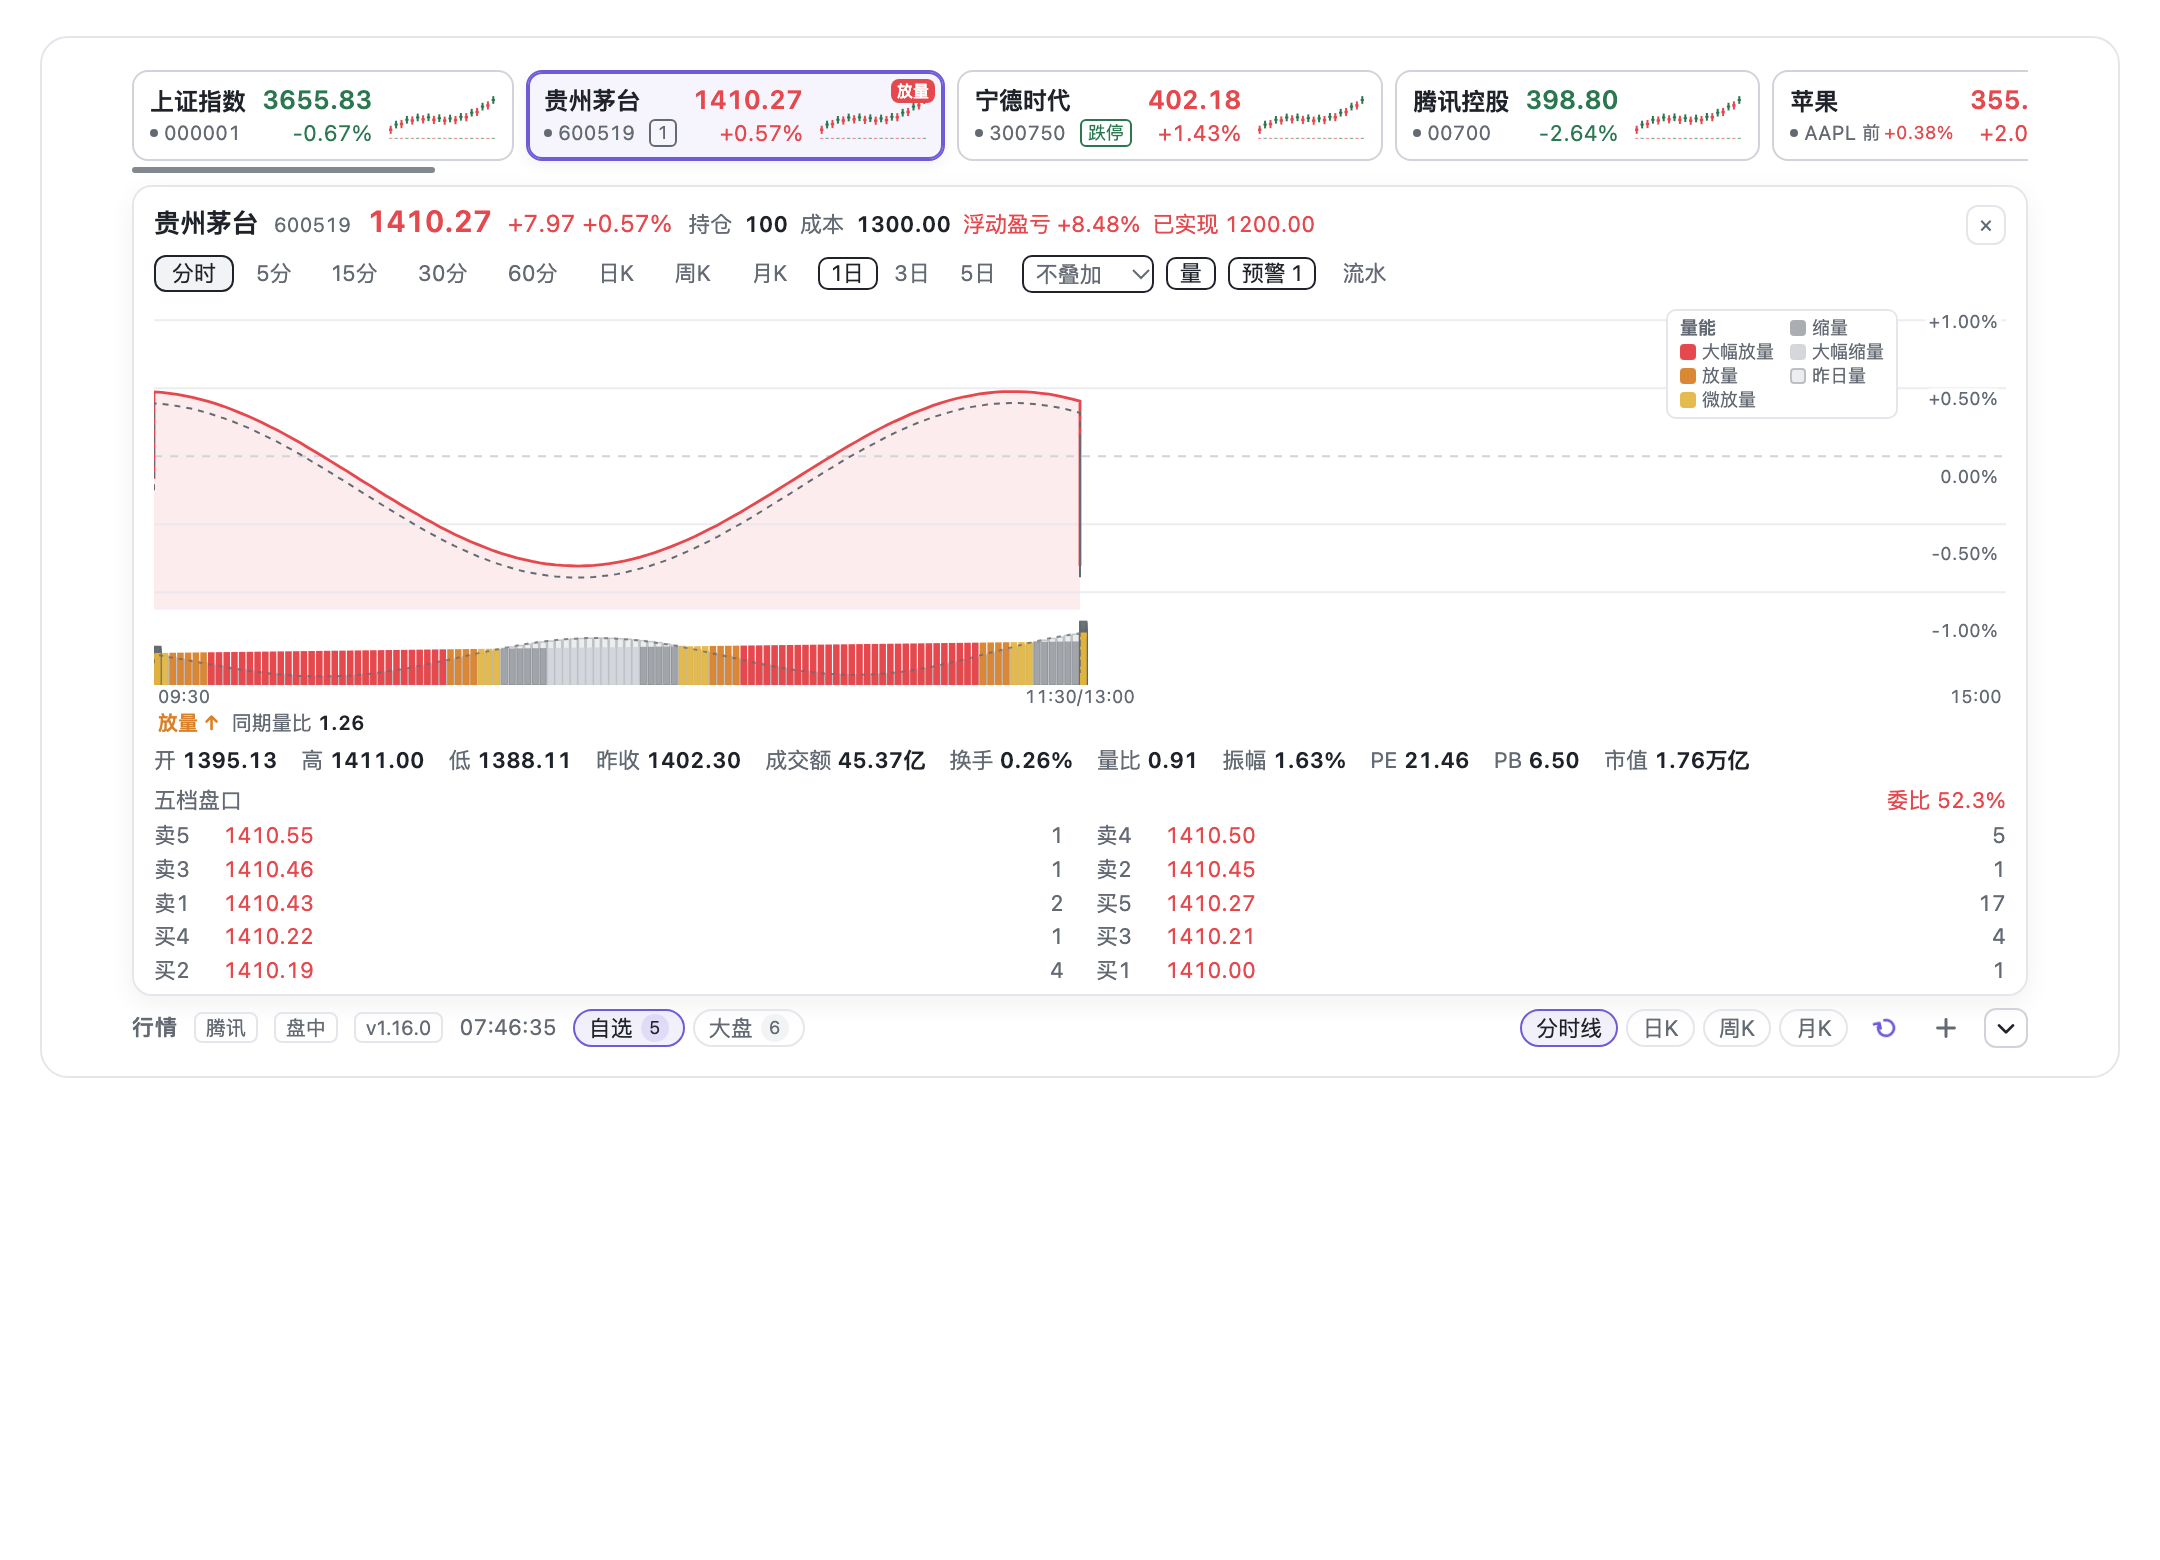
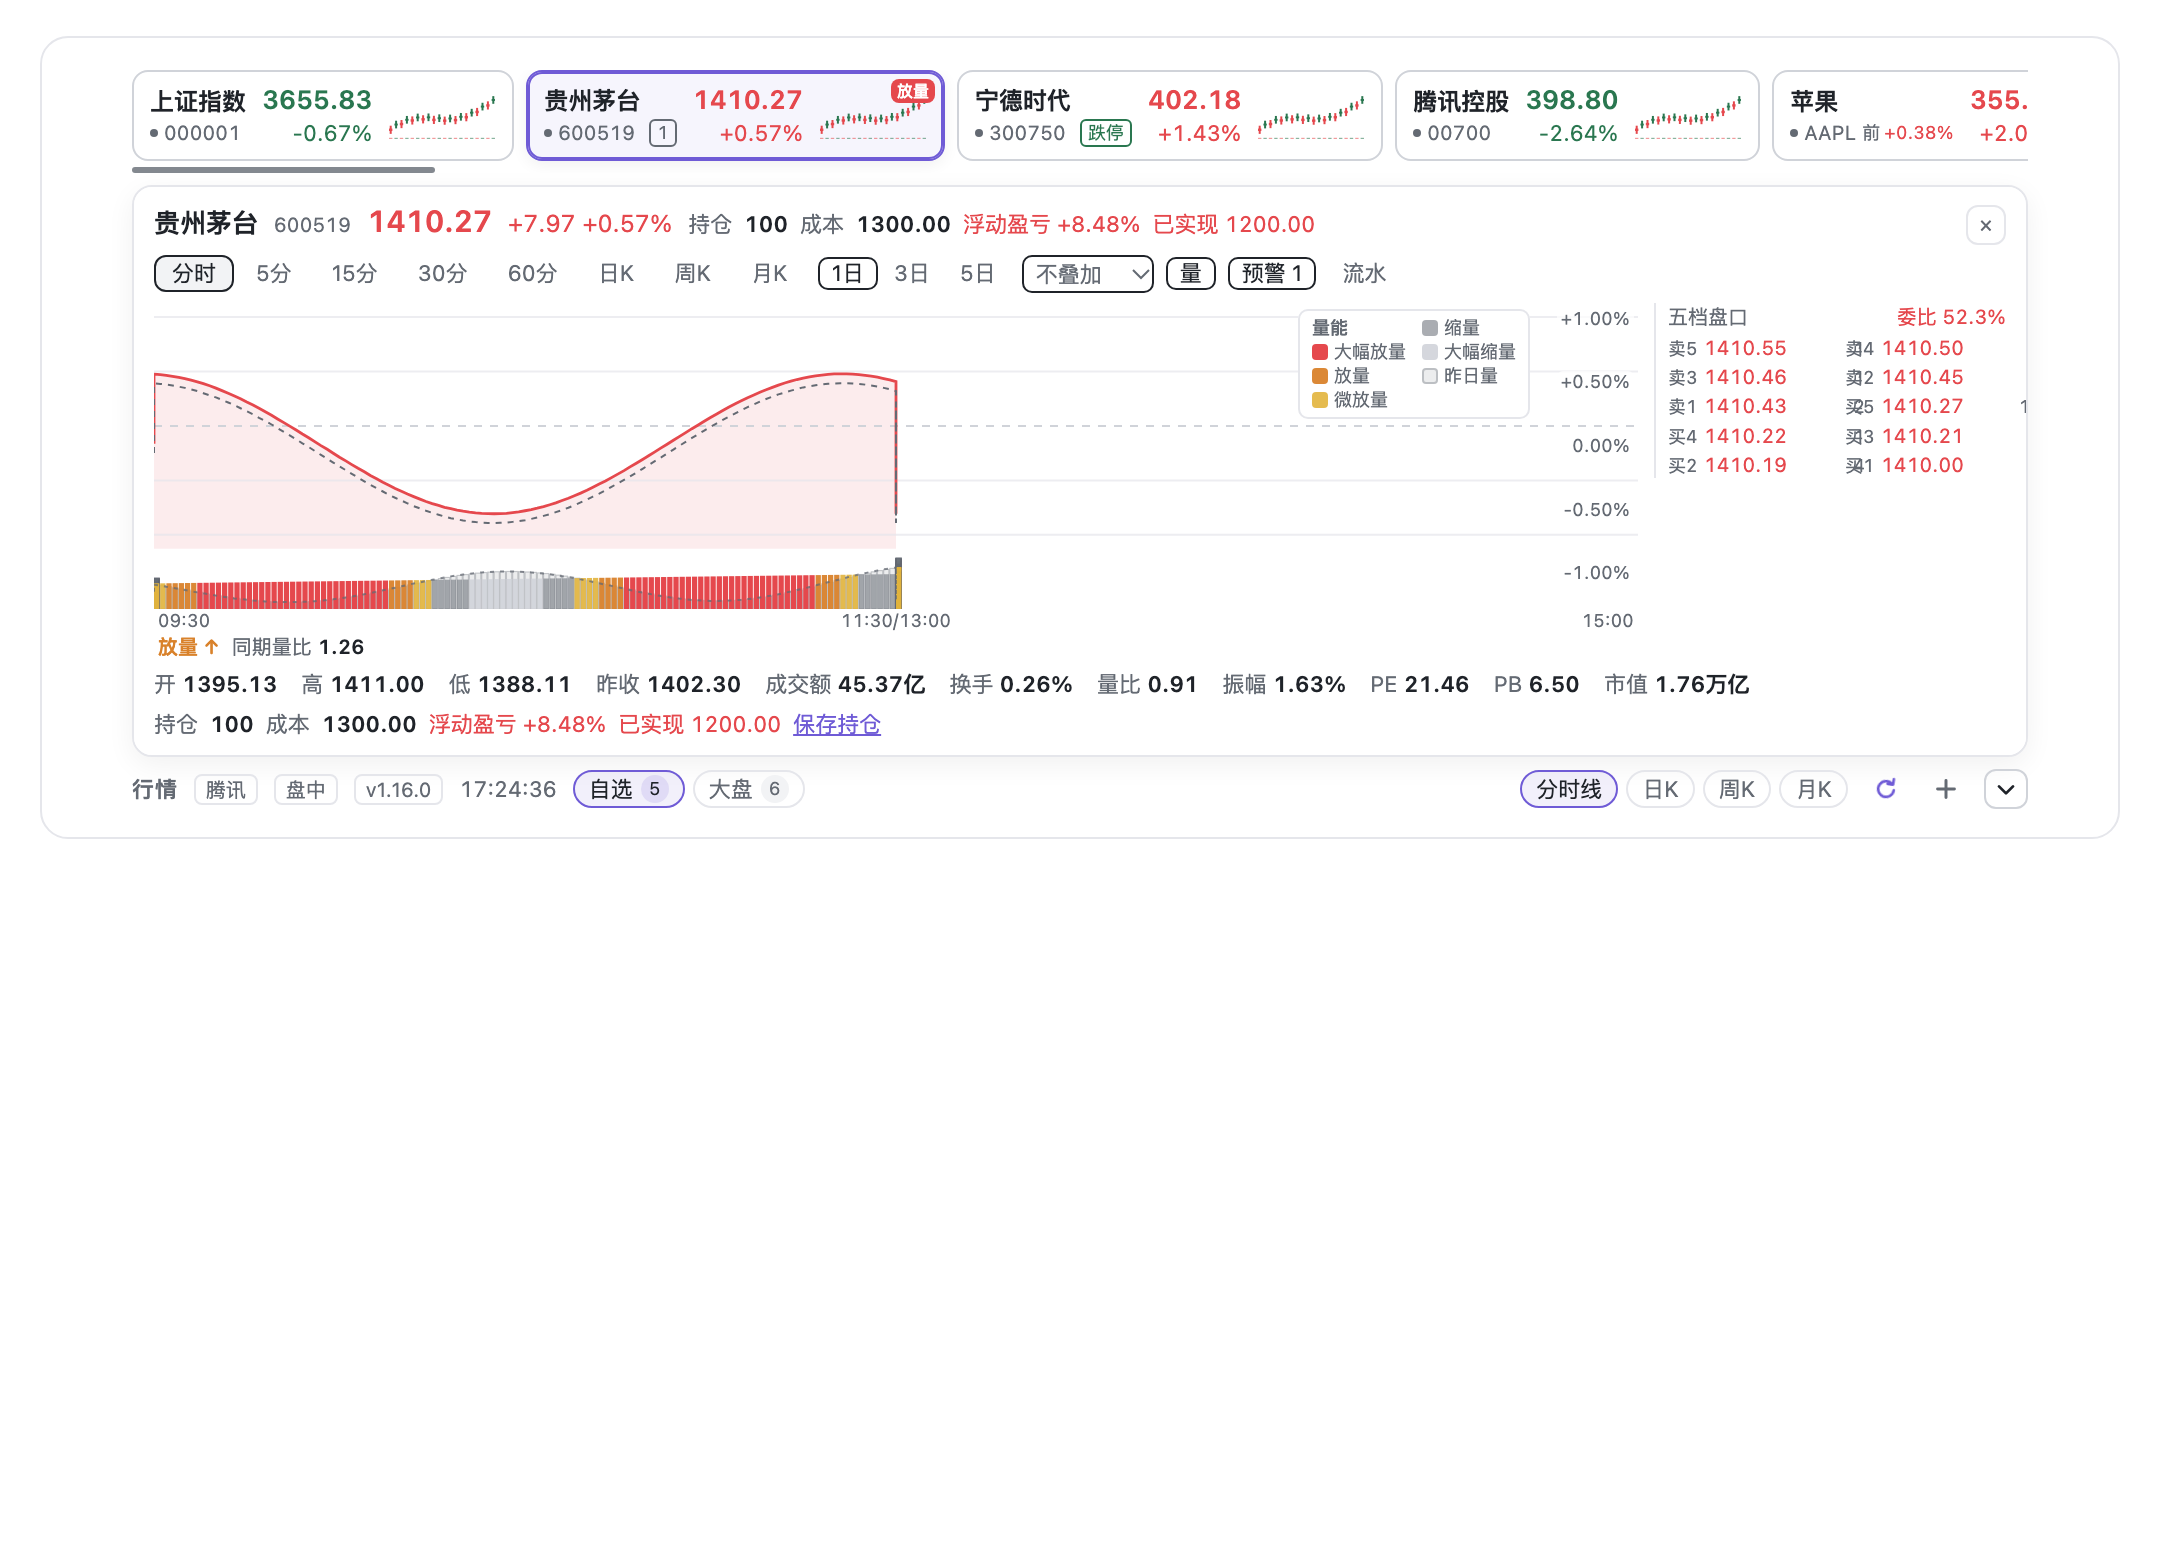
feat: dock the order book beside the chart

diff --git a/client.js b/client.js
@@ -943,25 +943,42 @@ window.__ModuleLoader__.load({
   font-size: 10px;
   line-height: 14px;
 }
-.dshst-book { display: flex; flex-direction: column; gap: 3px; }
+.dshst-chartRow { display: flex; align-items: flex-start; gap: 8px; width: 100%; }
+.dshst-chartCol { flex: 1 1 auto; min-width: 0; }
+.dshst-book {
+  display: flex;
+  flex: 0 0 176px;
+  flex-direction: column;
+  gap: 2px;
+  width: 176px;
+  min-width: 0;
+  padding-left: 6px;
+  border-left: 1px solid var(--dsw-alias-border-l1);
+}
 .dshst-bookHead {
   display: flex;
   justify-content: space-between;
-  font-size: 11px;
+  gap: 4px;
+  font-size: 10px;
   color: var(--dsw-alias-label-secondary);
   font-variant-numeric: tabular-nums;
+  white-space: nowrap;
 }
 .dshst-bookGrid {
   display: grid;
-  grid-template-columns: 1fr 1fr;
-  gap: 2px 16px;
-  font-size: 11px;
+  grid-template-columns: minmax(0, 1fr) minmax(0, 1fr);
+  gap: 1px 8px;
+  font-size: 10px;
   font-variant-numeric: tabular-nums;
 }
-.dshst-bookRow { display: flex; align-items: baseline; gap: 6px; }
-.dshst-bookLabel { width: 20px; color: var(--dsw-alias-label-secondary); }
-.dshst-bookPrice { min-width: 54px; text-align: right; }
-.dshst-bookVolume { margin-left: auto; color: var(--dsw-alias-label-secondary); }
+.dshst-bookRow { display: flex; align-items: baseline; gap: 3px; min-width: 0; }
+.dshst-bookLabel { flex: 0 0 15px; color: var(--dsw-alias-label-secondary); font-size: 9px; }
+.dshst-bookPrice { flex: 1 1 auto; text-align: right; font-size: 10px; }
+.dshst-bookVolume { flex: 0 0 36px; margin-left: 0; text-align: right; color: var(--dsw-alias-label-secondary); font-size: 9px; }
+@media (max-width: 720px) {
+  .dshst-chartRow { flex-direction: column; }
+  .dshst-book { flex-basis: auto; width: 100%; border-left: 0; border-top: 1px solid var(--dsw-alias-border-l1); padding: 6px 0 0; }
+}
 .dshst-chip {
   padding: 0 5px;
   border: 1px solid var(--dsw-alias-border-l1);
@@ -4803,9 +4820,15 @@ window.__ModuleLoader__.load({
               ),
             )
           : null,
-        chart,
+        h(
+          'div',
+          { className: 'dshst-chartRow' },
+          h('div', { className: 'dshst-chartCol' }, chart),
+          prefs.showOrderBook === false
+            ? null
+            : h(OrderBook, { depth: quote.depth, prevClose: quote.prevClose, t }),
+        ),
         prefs.showStats === false ? null : h(StatChips, { quote, t }),
-        prefs.showOrderBook === false ? null : h(OrderBook, { depth: quote.depth, prevClose: quote.prevClose, t }),
         h(
           'div',
           { className: 'dshst-holding' },
